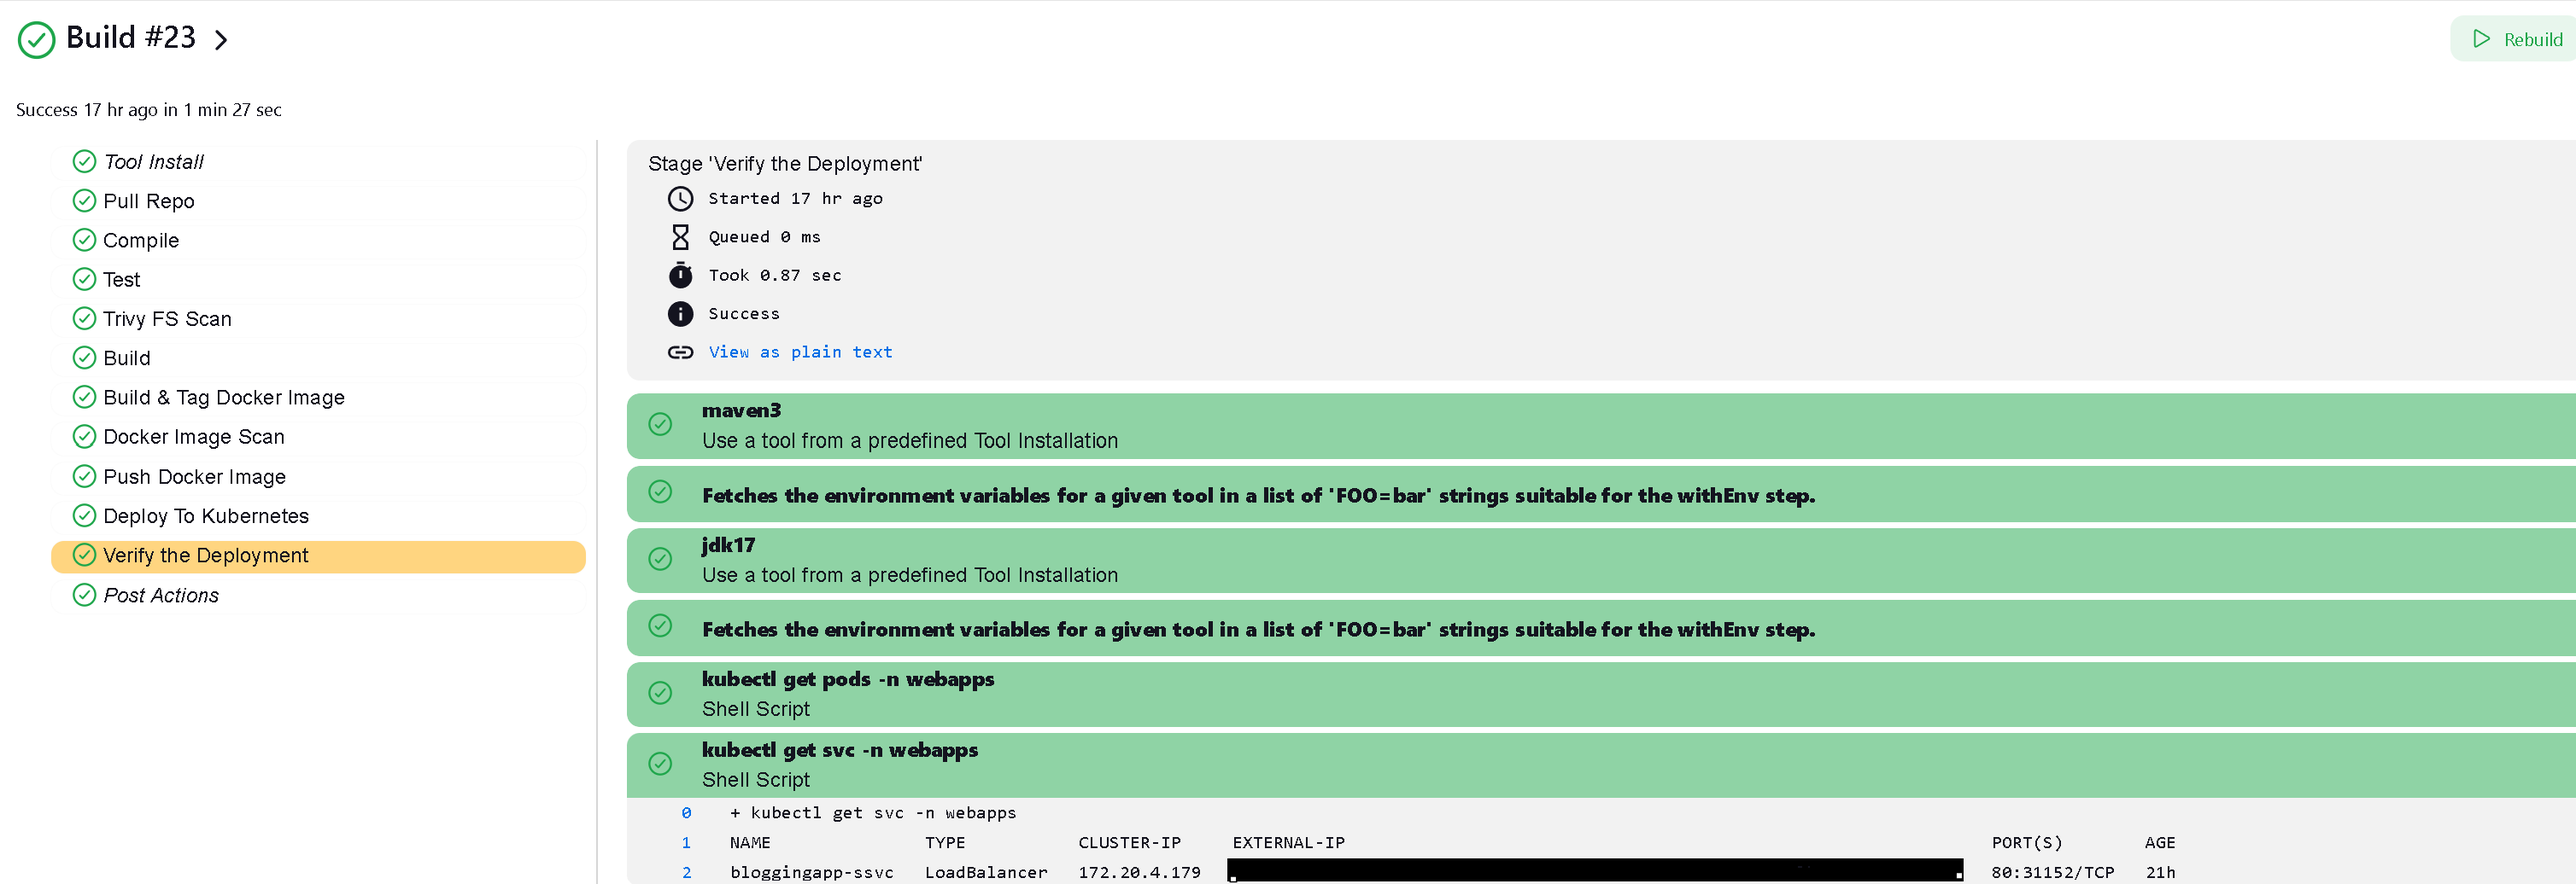
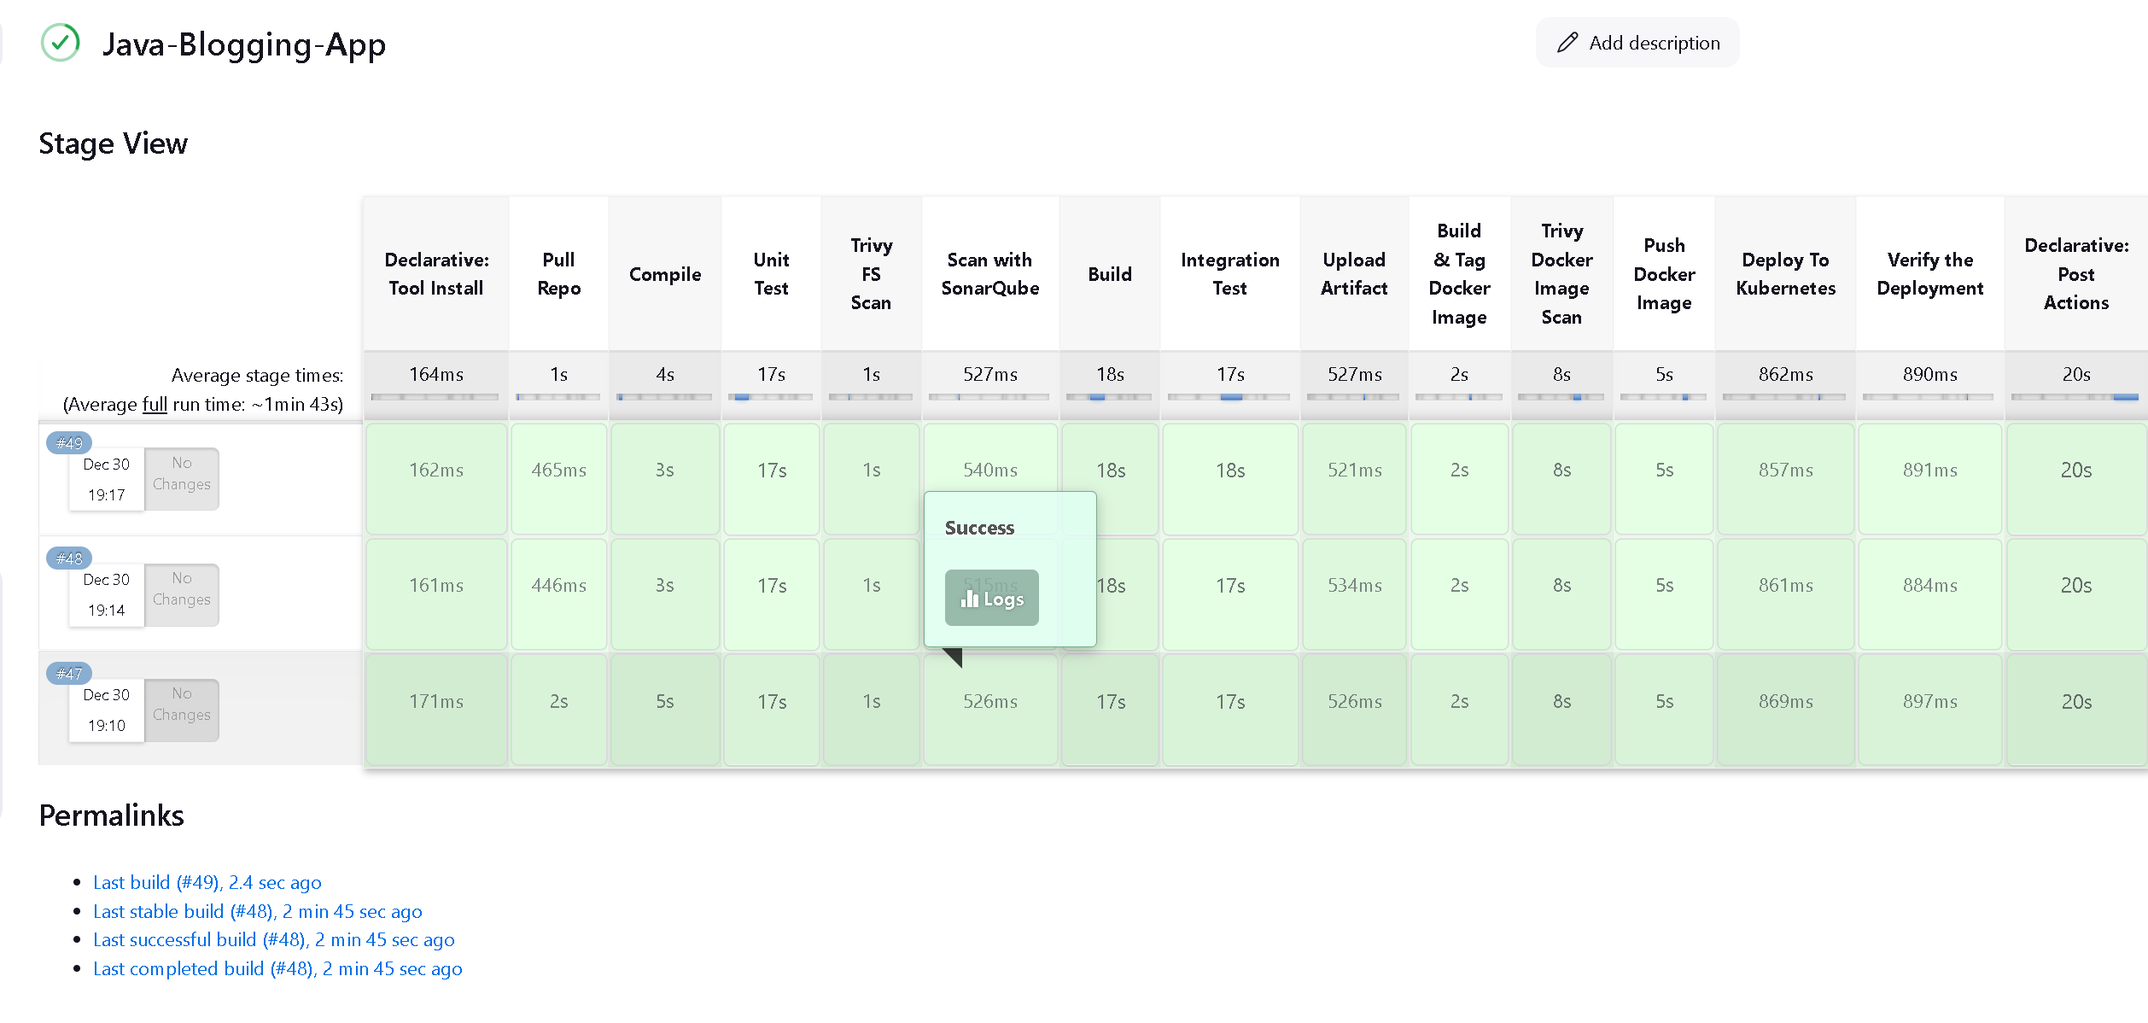
updates to readme

diff --git a/README.md b/README.md
@@ -50,9 +50,13 @@ The CI/CD pipeline is depicted in the diagram below, which mirrors the "as-built
 
 - **Without Terraform :**
 - Kubernetes deployment (apply and get pods) fails
-![Jenkins Pipeline](images/Jenkins-Pipeline.png)
+  - Terraform files are located in my [devops-install-scripts](https://github.com/T-Py-T/devops-install-scripts) repo
+
+  ![Jenkins Pipeline](images/Jenkins-Pipeline.png)
+
 - **With Terraform :**
-![Completed Kube Deployment](images/Completed-Kube-Deployment.png)
+
+  ![Completed Kube Deployment](images/Completed-Kube-Deployment.png)
 
 - **Maven**:
   - Simplifies dependency management and builds process for Java projects.
